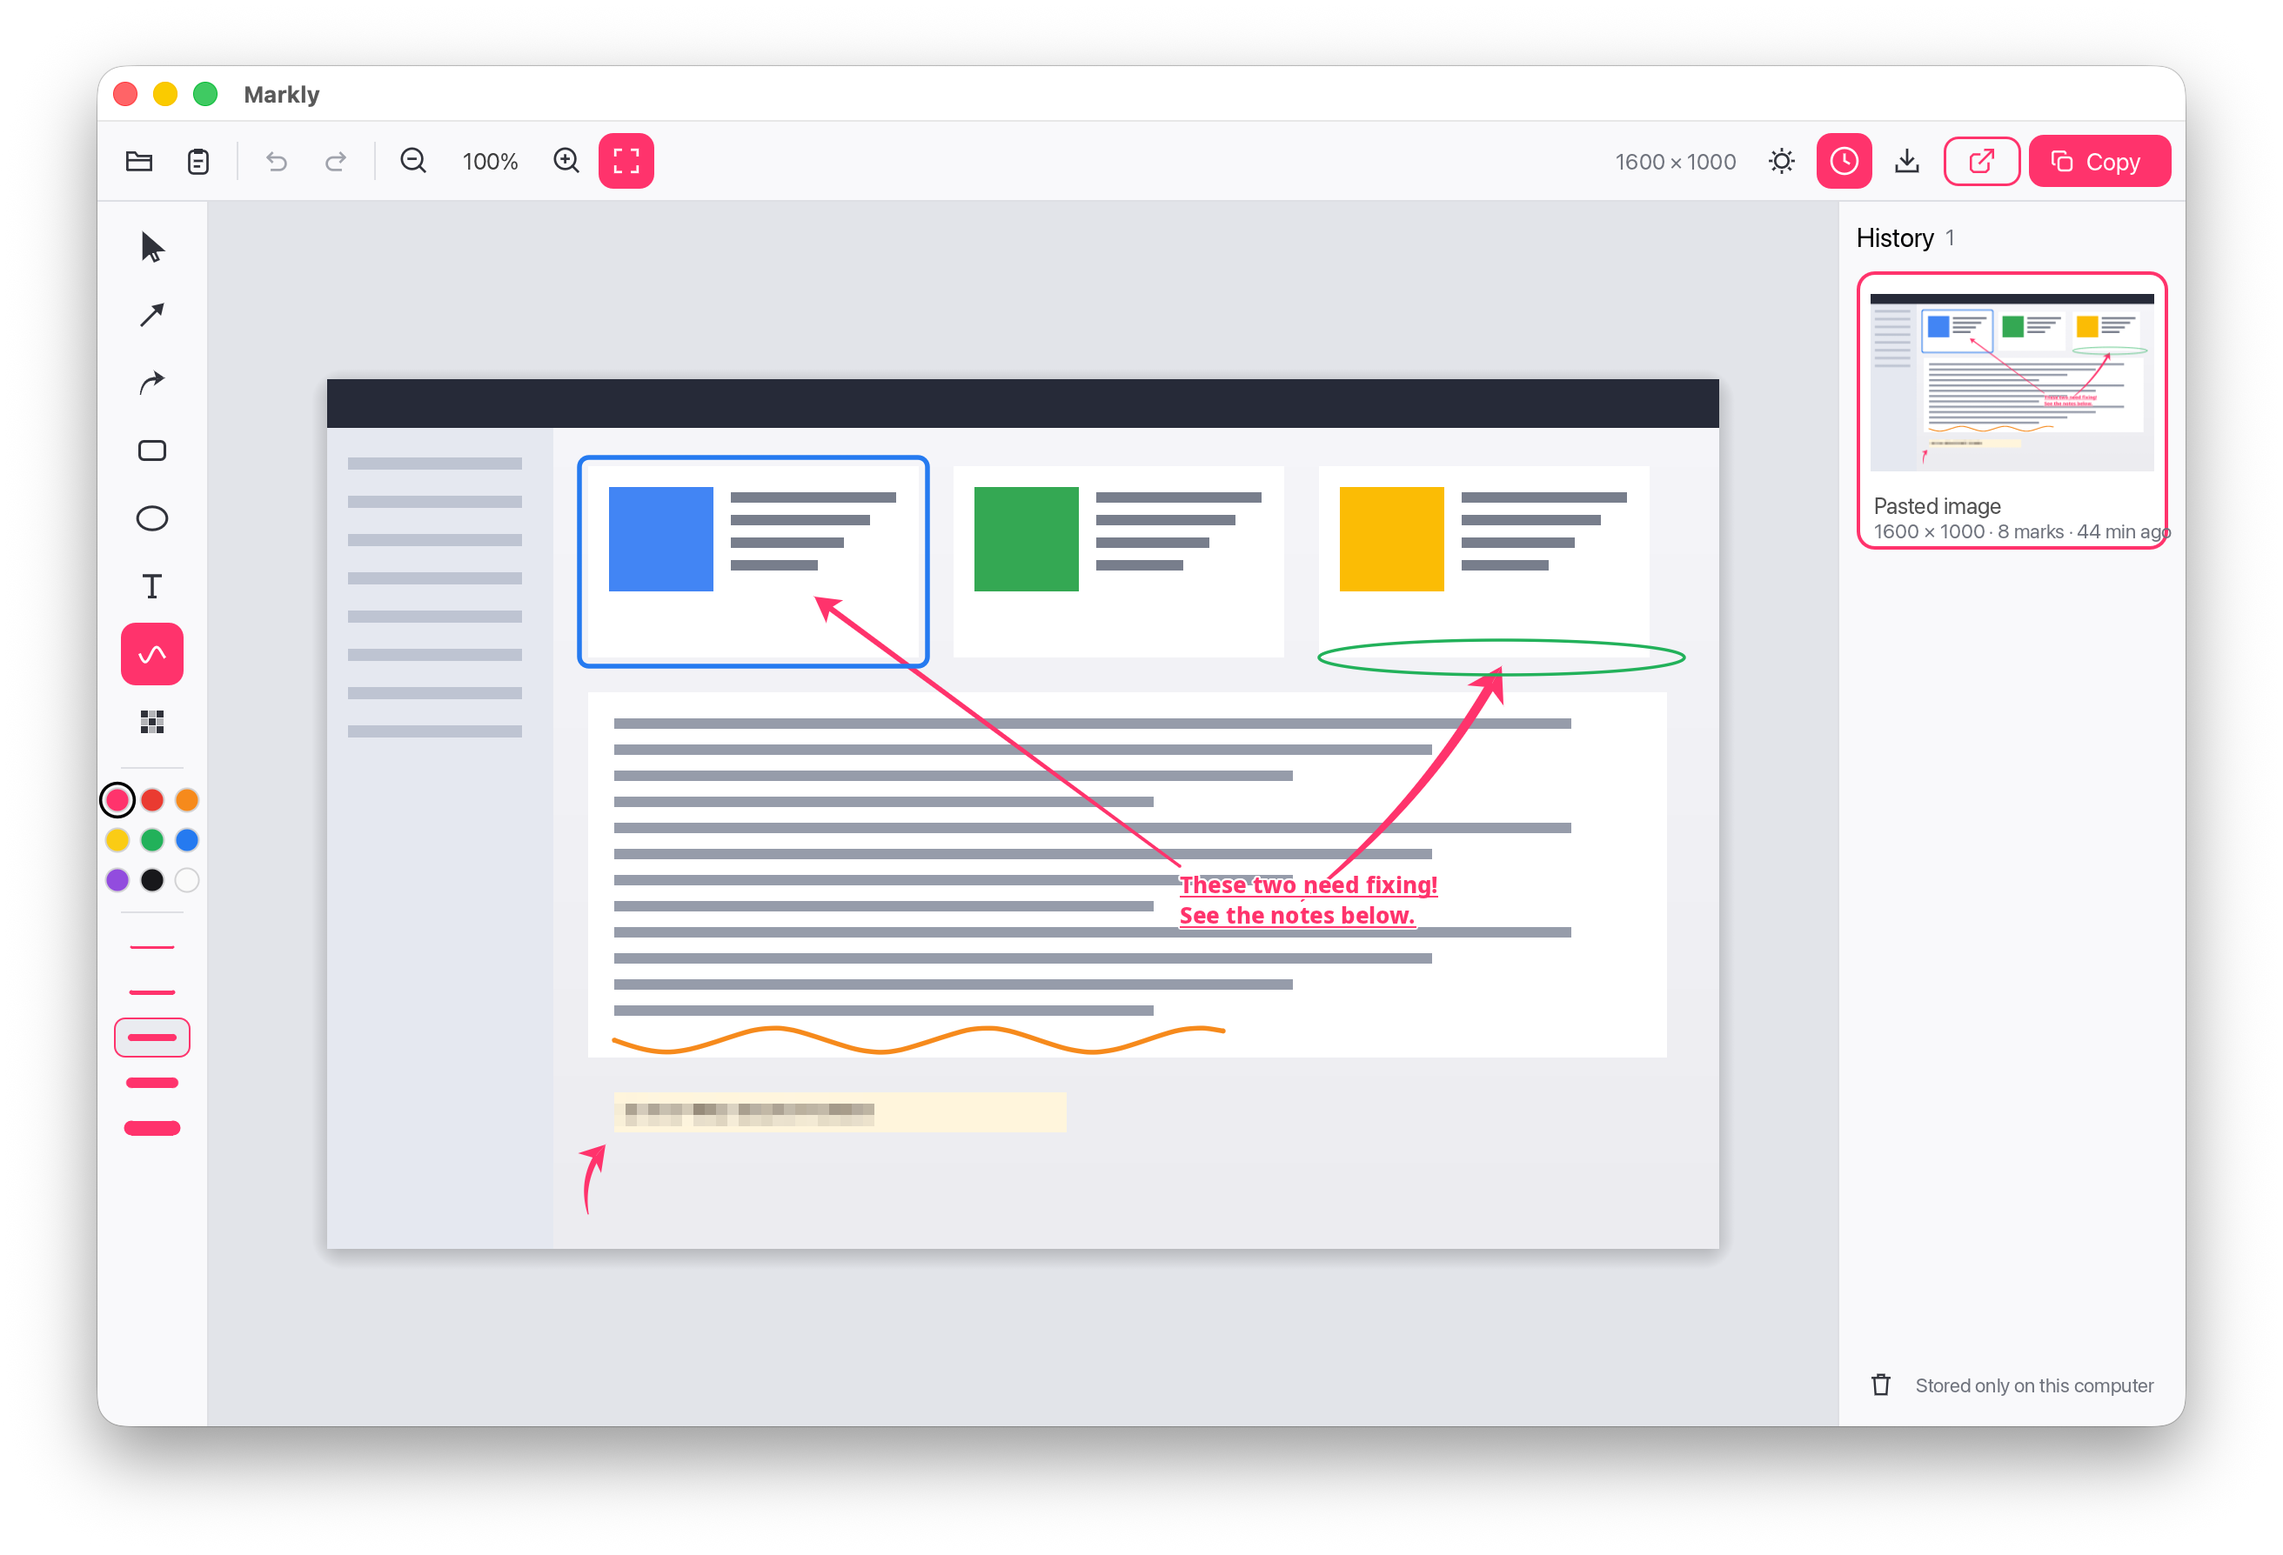
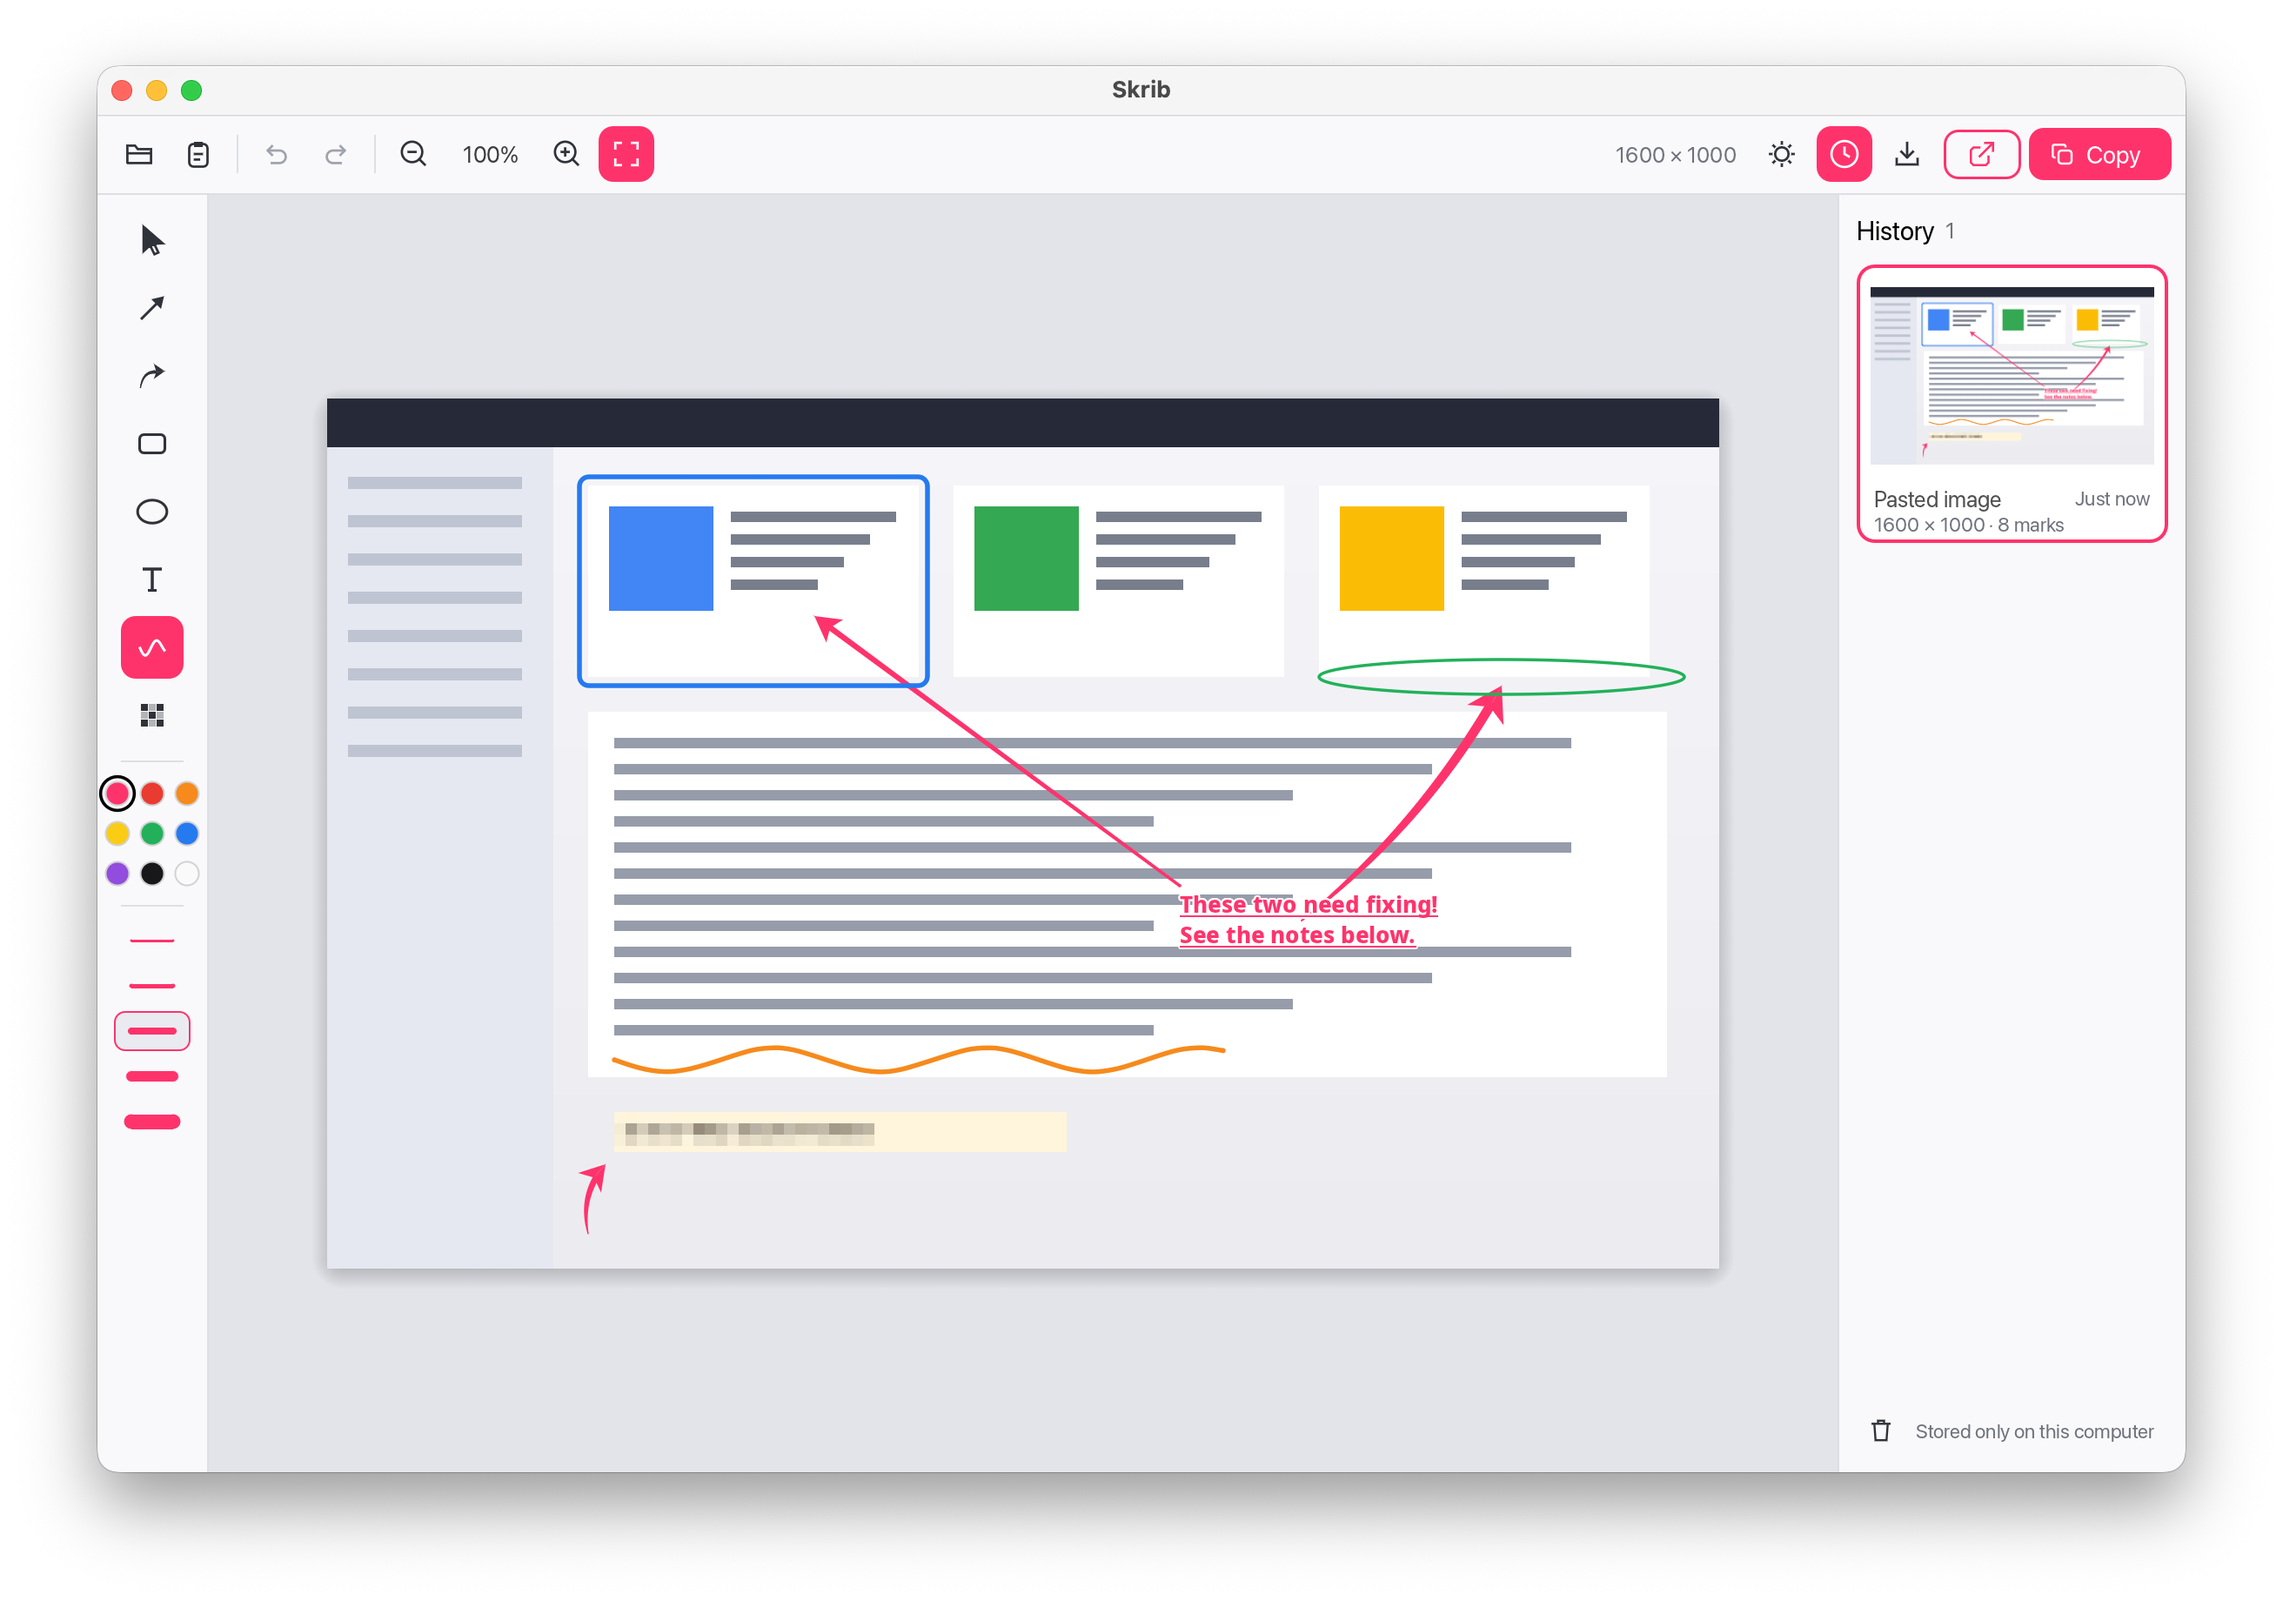
Refresh the macOS screenshot with the Skrib name (README and site)
Claude-Session: https://claude.ai/code/session_01Rhk27hSaKAbzpcsuhLkzTG

diff --git a/site/index.html b/site/index.html
@@ -187,7 +187,7 @@
       </div>
 
       <figure class="shot">
-        <img id="shot" src="img/screenshot-macos.webp" width="1600" height="1090" alt="Skrib on macOS with an annotated screenshot and the history panel">
+        <img id="shot" src="img/screenshot-macos.webp" width="1600" height="1122" alt="Skrib on macOS with an annotated screenshot and the history panel">
         <figcaption id="shot-caption">Skrib on macOS</figcaption>
       </figure>
     </div>
@@ -267,7 +267,7 @@
   // Per-OS screenshot. `framed` adds rounded corners and a shadow, for shots
   // without their own window shadow.
   const SHOTS = {
-    mac:     { src: "img/screenshot-macos.webp", w: 1600, h: 1090, caption: "Skrib on macOS" },
+    mac:     { src: "img/screenshot-macos.webp", w: 1600, h: 1122, caption: "Skrib on macOS" },
     windows: { src: "img/screenshot-windows.webp", w: 1600, h: 1002, caption: "Skrib on Windows", framed: true },
     linux:   { src: "img/screenshot-linux.webp", w: 1200, h: 750, caption: "Skrib on Linux", framed: true },
   };
